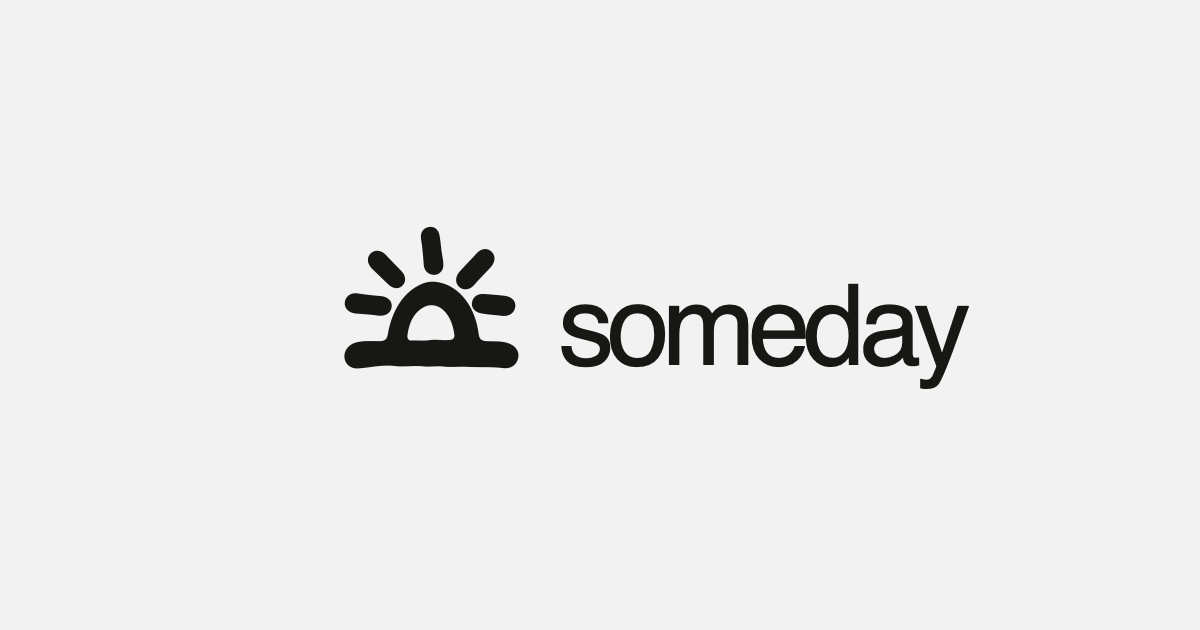
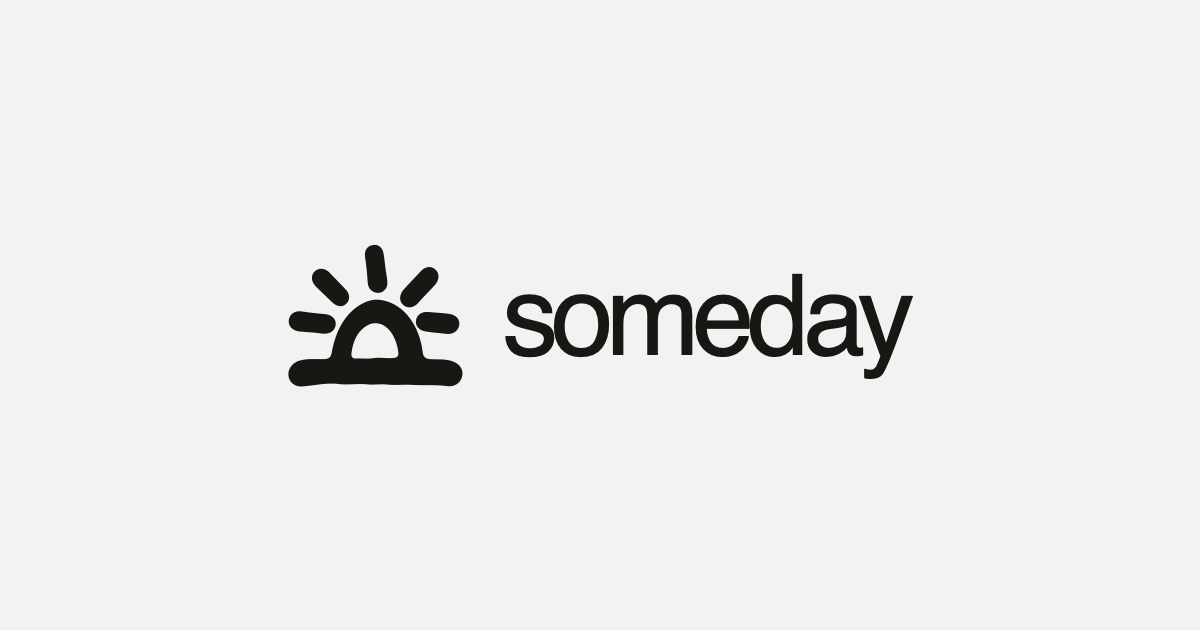
Fix social preview alignment and copy

Changed region(s): [[0.2158, 0.3619, 0.8325, 0.6333]]

diff --git a/src/routes/__root.tsx b/src/routes/__root.tsx
@@ -13,18 +13,18 @@ export const Route = createRootRoute({
       { charSet: "utf-8" },
       { name: "viewport", content: "width=device-width, initial-scale=1" },
       { name: "color-scheme", content: "light dark" },
-      { name: "description", content: "Save the things you find online to your own little board." },
+      { name: "description", content: "Everything you want, collected for you." },
       { property: "og:type", content: "website" },
       { property: "og:site_name", content: "someday" },
-      { property: "og:title", content: "someday · A home for your wishlist" },
-      { property: "og:description", content: "Save the things you find online to your own little board." },
+      { property: "og:title", content: "someday · Maybe someday" },
+      { property: "og:description", content: "Everything you want, collected for you." },
       { property: "og:image", content: "https://someday.fyi/social-card.png" },
       { property: "og:image:width", content: "1200" },
       { property: "og:image:height", content: "630" },
       { property: "og:image:alt", content: "The someday logo and wordmark" },
       { name: "twitter:card", content: "summary_large_image" },
-      { name: "twitter:title", content: "someday · A home for your wishlist" },
-      { name: "twitter:description", content: "Save the things you find online to your own little board." },
+      { name: "twitter:title", content: "someday · Maybe someday" },
+      { name: "twitter:description", content: "Everything you want, collected for you." },
       { name: "twitter:image", content: "https://someday.fyi/social-card.png" },
       { name: "twitter:image:alt", content: "The someday logo and wordmark" },
     ],

diff --git a/src/routes/index.tsx b/src/routes/index.tsx
@@ -13,10 +13,10 @@ export const Route = createFileRoute("/")({
     loaderData?.signedIn ? privateHtmlCacheHeaders : homeCacheHeaders,
   head: () => ({
     meta: [
-      { title: "someday · A home for your wishlist" },
+      { title: "someday" },
       {
         name: "description",
-        content: "Save the things you find online to your own little board. Paste a product link, choose an image, and come back to it someday.",
+        content: "Everything you want, collected for you.",
       },
     ],
   }),
